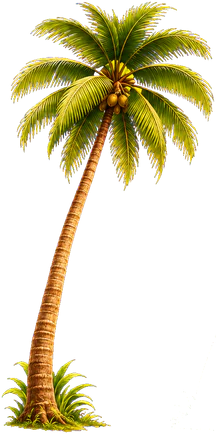
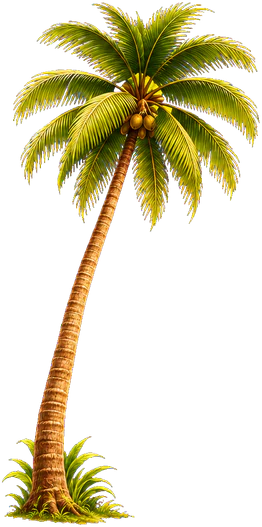
Coconut palms stand in the backwaters bank; Garba & Dance lights and bunting never show together
Culture wings: the palms ride with the backwaters scene (feet hidden in its bushes, crowns beside
the bride's name), stray specks cleaned off their cut-outs (new despeckle option), the text is
measured by its glyphs rather than the padded wipe spans, and the temple stays below the kites.

Garba & Dance: on each switch the outgoing look (garba bunting, toran, lanterns / the dance
truss) lifts a little and fades right out before the incoming one drops in a short way and fades
in; nothing flies up over the event heading any more.

diff --git a/src/components/CultureWings.tsx b/src/components/CultureWings.tsx
@@ -90,8 +90,11 @@ type Placed = { it: CultureItem; side: Side; left: number; top: number; w: numbe
 type Fit = { scale: Record<Side, number>; nudge: Record<string, number>; dy: Record<string, number>; gs: Record<string, number> };
 /** scenes: an anchor and what rides with it (the houseboat on the backwaters' water); a scene
  *  shrinks about its anchor's pivot, slides and moves as one (the flag goes with its temple) */
-const GROUPS: Record<string, string[]> = { "backwaters-view": ["backwaters-view"], "temple-stepwell": ["temple-stepwell"] };
+const GROUPS: Record<string, string[]> = { "backwaters-view": ["backwaters-view", "palm-1", "palm-2"], "temple-stepwell": ["temple-stepwell"] };
 const groupOf = (id: string) => (id === "flag" ? "temple-stepwell" : (Object.keys(GROUPS).find((g) => GROUPS[g].includes(id)) ?? id));
+/** the palms stand in their scene's bank (up and down with it) but each may lean out on its own */
+const isPalm = (id: string) => id.startsWith("palm-");
+const nudgeOf = (id: string) => (isPalm(id) ? id : groupOf(id));
 /** hanging pieces: they may hang lower, on a longer cord, to clear the buttons and the seal's roses */
 const HANG = new Set(["jasmine-strand", "brass-lamp", "latkan-short", "latkan-long", "lantern"]);
 
@@ -100,7 +103,7 @@ function placeAll(W: number, H: number, f: Fit) {
   // (a fit saved before a field existed — e.g. across a hot reload — still works)
   const fit: Fit = { scale: f.scale ?? { left: 1, right: 1, water: 1 }, nudge: f.nudge ?? {}, dy: f.dy ?? {}, gs: f.gs ?? {} };
   const k = W / 1024;
-  const raw: Record<string, { it: CultureItem; side: Side; px: number; py: number; w: number; h: number; ox: number; oy: number }> = {};
+  const raw: Record<string, { it: CultureItem; side: Side; px: number; py: number; my: number; s: number; w: number; h: number; ox: number; oy: number }> = {};
   for (const it of CITEMS) {
     const pc = CP[it.piece];
     if (!pc || it.id === "flag") continue;
@@ -115,11 +118,19 @@ function placeAll(W: number, H: number, f: Fit) {
       side,
       px: side === "left" ? mx * k * s : side === "right" ? W - (1024 - mx) * k * s : mx * k,
       py: TOP.has(it.id) ? my * k * s : MID.has(it.id) ? (my / 1536) * H : H - (1536 - my) * k * s,
+      my,
+      s,
       w: mw * k * s,
       h: mh * k * s,
       ox: it.flip ? 1 - pc.pivot[0] : pc.pivot[0],
       oy: pc.pivot[1],
     };
+  }
+  // what rides with a scene keeps its place in it (at any card height)
+  for (const [g, ids] of Object.entries(GROUPS)) {
+    const A = raw[g];
+    if (!A) continue;
+    for (const id of ids) if (id !== g && raw[id]) raw[id].py = A.py + (raw[id].my - A.my) * k * raw[id].s;
   }
   // a scene shrinks about its anchor's pivot
   for (const [g, ids] of Object.entries(GROUPS)) {
@@ -132,14 +143,15 @@ function placeAll(W: number, H: number, f: Fit) {
       if (!r) continue;
       r.px = ax + (r.px - ax) * gs;
       r.py = ay + (r.py - ay) * gs;
+      // (a palm keeps its size: only its foot follows the shrinking bank)
+      if (isPalm(id)) continue;
       r.w *= gs;
       r.h *= gs;
     }
   }
   const out: Record<string, Placed> = {};
   for (const [id, r] of Object.entries(raw)) {
-    const key = groupOf(id);
-    out[id] = { it: r.it, side: r.side, left: r.px - r.ox * r.w + (fit.nudge[key] ?? 0), top: r.py - r.oy * r.h + (fit.dy[key] ?? 0), w: r.w, h: r.h, ox: r.ox, oy: r.oy };
+    out[id] = { it: r.it, side: r.side, left: r.px - r.ox * r.w + (fit.nudge[nudgeOf(id)] ?? 0), top: r.py - r.oy * r.h + (fit.dy[groupOf(id)] ?? 0), w: r.w, h: r.h, ox: r.ox, oy: r.oy };
   }
   // the flag stands on the temple's shikhara
   const t = out["temple-stepwell"];
@@ -195,7 +207,7 @@ const onCard = (left: number, w: number, W: number) => Math.max(0, Math.min(W, l
 function fitAround(W: number, H: number, obs: Rect[]): Fit {
   const fit: Fit = { scale: { left: 1, right: 1, water: 1 }, nudge: {}, dy: {}, gs: {} };
   const u = W / 390;
-  const scenic = (id: string) => groupOf(id) in GROUPS || id.startsWith("palm-");
+  const scenic = (id: string) => groupOf(id) in GROUPS;
   // 1. each side shrinks (to minScale) for its figures, props, kites and hanging pieces
   for (const side of ["left", "right"] as const) {
     for (let s = 1; s >= S.minScale - 1e-6; s -= 0.05) {
@@ -231,34 +243,29 @@ function fitAround(W: number, H: number, obs: Rect[]): Fit {
         const fig = pl[A.side === "left" ? "kathakali" : "garba-couple"];
         if (fig && A.top + A.h > fig.top + fig.h * 0.3) continue;
         if (A.top < H * 0.16) continue;
-        const ids = [...GROUPS[g], ...(g === "temple-stepwell" ? ["flag"] : [])].filter((id) => pl[id]);
+        // (and below its side's kites: they fly in the sky above it)
+        const kites = Object.values(pl).filter((p) => p.it.id.startsWith("kite-") && p.side === A.side);
+        if (kites.length && A.top < Math.max(...kites.map((p) => p.top + p.h)) + 6 * u) continue;
+        // (the palms lean out on their own, after)
+        const ids = [...GROUPS[g].filter((id) => !isPalm(id)), ...(g === "temple-stepwell" ? ["flag"] : [])].filter((id) => pl[id]);
         const need = Math.max(...ids.map((id) => Math.abs(overlapOf(pl[id], obs, W))));
         const shift = A.side === "left" ? -need : need;
-        const vis = Math.min(...GROUPS[g].filter((id) => pl[id]).map((id) => onCard(pl[id].left + shift, pl[id].w, W)));
-        const score = gs * gs * vis ** 3 - (Math.abs(d) / 390) * 0.15;
+        const vis = Math.min(...GROUPS[g].filter((id) => pl[id] && !isPalm(id)).map((id) => onCard(pl[id].left + shift, pl[id].w, W)));
+        // …and its palms show as much as they can, leaning clear of the text from where they stand
+        const palms = GROUPS[g].filter((id) => isPalm(id) && pl[id]);
+        const pv = palms.length ? palms.reduce((a, id) => a + onCard(pl[id].left + overlapOf(pl[id], obs, W), pl[id].w, W), 0) / palms.length : 1;
+        const score = gs * gs * vis ** 3 * pv ** 2 - (Math.abs(d) / 390) * 0.15;
         if (score > best.score) best = { score, gs, d };
       }
     }
     fit.gs[g] = +best.gs.toFixed(2);
     fit.dy[g] = best.d * u;
   }
-  // 4. the palms (placed by height) may slide up or down a little
-  for (const id of ["palm-1", "palm-2"]) {
-    let best = { need: Infinity, d: 0 };
-    for (let d = -70; d <= 70; d += 5) {
-      fit.dy[id] = d * u;
-      const p = placeAll(W, H, fit)[id];
-      if (!p) break;
-      const need = Math.abs(overlapOf(p, obs, W));
-      if (need < best.need - 0.5 || (Math.abs(need - best.need) <= 0.5 && Math.abs(d) < Math.abs(best.d))) best = { need, d };
-    }
-    fit.dy[id] = best.d * u;
-  }
-  // 5. anything still in the way moves outward (a scene as one, as far as its member that needs most)
+  // 4. anything still in the way moves outward (a scene as one, as far as its member that needs most)
   const pl = placeAll(W, H, fit);
   for (const p of Object.values(pl)) {
     const n = overlapOf(p, obs, W);
-    const key = groupOf(p.it.id);
+    const key = nudgeOf(p.it.id);
     if (n && Math.abs(n) > Math.abs(fit.nudge[key] ?? 0)) fit.nudge[key] = n;
   }
   return fit;
@@ -272,11 +279,16 @@ function measureText(card: HTMLElement): Rect[] {
   const own = (el: Element) => ({ x: Number(gsap.getProperty(el, "x")) || 0, y: Number(gsap.getProperty(el, "y")) || 0 });
   const add = (r: DOMRect, o = { x: 0, y: 0 }) =>
     r.width > 1 && r.height > 1 && out.push({ left: r.left - cr.left - o.x, right: r.right - cr.left - o.x, top: r.top - cr.top - o.y, bottom: r.bottom - cr.top - o.y });
+  // (the glyphs themselves: each text node's lines, not the padded wipe/shimmer spans round them)
   card.querySelectorAll(".content .name, .content .relation, .content .parents, .content .joiner-word, .content .invite, .content .tagline").forEach((el) => {
-    const rg = document.createRange();
-    rg.selectNodeContents(el);
     const o = own(el);
-    for (const r of rg.getClientRects()) add(r, o);
+    const walk = document.createTreeWalker(el, NodeFilter.SHOW_TEXT);
+    for (let n = walk.nextNode(); n; n = walk.nextNode()) {
+      if (!n.textContent?.trim()) continue;
+      const rg = document.createRange();
+      rg.selectNodeContents(n);
+      for (const r of rg.getClientRects()) add(r, o);
+    }
   });
   // "TOGETHER WITH OUR FAMILIES" is split into letters that start spread apart
   card.querySelectorAll(".content .together").forEach((el) => {

diff --git a/src/components/scenes/GarbaDanceScene.tsx b/src/components/scenes/GarbaDanceScene.tsx
@@ -558,11 +558,12 @@ export function GarbaDanceScene({ scrollerRef, style, reduce, page }: { scroller
           0.5,
         );
         T2.to(st, { flameOn: 0, flame: 0.4, duration: 0.3 }, 0.6);
-        // 4. the sky turns plum, the stars come out; the garba decor lifts away; the truss drops in
+        // 4. the sky turns plum, the stars come out; the garba decor lifts a little and fades right
+        //    out — and only once it has gone does the truss drop in (never both at once, and neither
+        //    flies up over the heading)
         T2.to(st, { sky: 1, duration: 1.4, ease: "sine.inOut" }, 0.6);
-        T2.to(decorEls, { y: () => -H * 0.45, duration: 0.8, ease: "power2.in", stagger: 0.05 }, 0.7);
-        T2.set(decorEls, { autoAlpha: 0 }, 1.6);
-        T2.fromTo(truss, { y: () => -H * 0.3, autoAlpha: 1 }, { y: 0, duration: 0.9, ease: "back.out(1.7)" }, 1.0);
+        T2.to(decorEls, { y: () => -H * 0.07, autoAlpha: 0, duration: 0.42, ease: "power2.in", stagger: 0.035 }, 0.6);
+        T2.fromTo(truss, { y: () => -H * 0.08, autoAlpha: 0 }, { y: 0, autoAlpha: 1, duration: 0.55, ease: "back.out(1.6)" }, 1.35);
         // 5. the light becomes the disco ball; the spotlights snap on, left to right, on the beat
         T2.fromTo(disco, { autoAlpha: 0, scale: 0.8, x: 0, y: 0 }, { autoAlpha: 1, scale: 1, duration: 0.5, ease: "back.out(2.4)" }, 1.8);
         T2.to(lightBall, { autoAlpha: 0, scale: 1.25, duration: 0.45 }, 1.85);
@@ -634,8 +635,7 @@ export function GarbaDanceScene({ scrollerRef, style, reduce, page }: { scroller
         });
         T2.set(beams, { autoAlpha: 0 }, 1.0);
         T2.to(st, { reflect: 0, duration: 0.3 }, 0);
-        T2.to(truss, { y: () => -H * 0.3, duration: 0.6, ease: "power2.in" }, 0.5);
-        T2.set(truss, { autoAlpha: 0 }, 1.1);
+        T2.to(truss, { y: () => -H * 0.08, autoAlpha: 0, duration: 0.42, ease: "power2.in" }, 0.75);
         T2.to(st, { floorOn: 0, duration: 0.6, ease: "sine.inOut" }, 0.1);
         T2.to(st, { sky: 0, duration: 1.0, ease: "sine.inOut" }, 0.2);
         T2.to(dholGlow, { opacity: 0.35, duration: 0.4 }, 1.4);
@@ -643,8 +643,9 @@ export function GarbaDanceScene({ scrollerRef, style, reduce, page }: { scroller
         crew.forEach((c, i) => T2.to(c.el, { x: () => W * ENTRY[c.id], autoAlpha: 0, duration: 0.6, ease: "power2.in" }, 0.3 + i * 0.08));
         T2.to([djCon, djBoy], { y: djDrop, duration: 0.6, ease: "power2.in" }, 0.3);
         T2.set([djCon, djBoy], { autoAlpha: 0 }, 0.95);
-        // 4. the decor drops back in; the dhol player walks in from the left
-        T2.fromTo(decorEls, { y: () => -H * 0.45, autoAlpha: 1 }, { y: 0, duration: 0.8, ease: "back.out(1.3)", stagger: 0.06 }, 1.1);
+        // 4. once the truss has gone, the decor drops back in (a short drop, fading in); the dhol
+        //    player walks in from the left
+        T2.fromTo(decorEls, { y: () => -H * 0.07, autoAlpha: 0 }, { y: 0, autoAlpha: 1, duration: 0.6, ease: "back.out(1.4)", stagger: 0.05 }, 1.25);
         T2.fromTo(dhol, { x: () => -W * 0.5, autoAlpha: 1 }, { x: 0, duration: 1.2, ease: "power1.out" }, 1.2);
         T2.fromTo(dhol, { y: 0 }, { y: () => -4 * k(), duration: 0.15, yoyo: true, repeat: 7, ease: "sine.inOut" }, 1.2);
         // 5. the dancers spiral back into the ring, slowing to the garba

diff --git a/public/scenes/culture/contact.html b/public/scenes/culture/contact.html
@@ -11,8 +11,8 @@ figcaption{margin-top:6px;display:flex;justify-content:space-between}small{opaci
 <p>57 pieces · <label><input type="checkbox" onchange="document.body.classList.toggle('dark',this.checked)"> dark background (shows any fringe)</label></p>
 <main><figure><div class="img"><img src="backwaters-view.webp" alt="backwaters-view"></div><figcaption>backwaters-view<small>530×356</small></figcaption></figure>
 <figure><div class="img"><img src="houseboat.webp" alt="houseboat"></div><figcaption>houseboat<small>162×51</small></figcaption></figure>
-<figure><div class="img"><img src="palm-1.webp" alt="palm-1"></div><figcaption>palm-1<small>216×434</small></figcaption></figure>
-<figure><div class="img"><img src="palm-2.webp" alt="palm-2"></div><figcaption>palm-2<small>132×221</small></figcaption></figure>
+<figure><div class="img"><img src="palm-1.webp" alt="palm-1"></div><figcaption>palm-1<small>262×527</small></figcaption></figure>
+<figure><div class="img"><img src="palm-2.webp" alt="palm-2"></div><figcaption>palm-2<small>352×590</small></figcaption></figure>
 <figure><div class="img"><img src="jasmine-strand.webp" alt="jasmine-strand"></div><figcaption>jasmine-strand<small>51×392</small></figcaption></figure>
 <figure><div class="img"><img src="brass-lamp.webp" alt="brass-lamp"></div><figcaption>brass-lamp<small>73×235</small></figcaption></figure>
 <figure><div class="img"><img src="kathakali.webp" alt="kathakali"></div><figcaption>kathakali<small>221×447</small></figcaption></figure>
